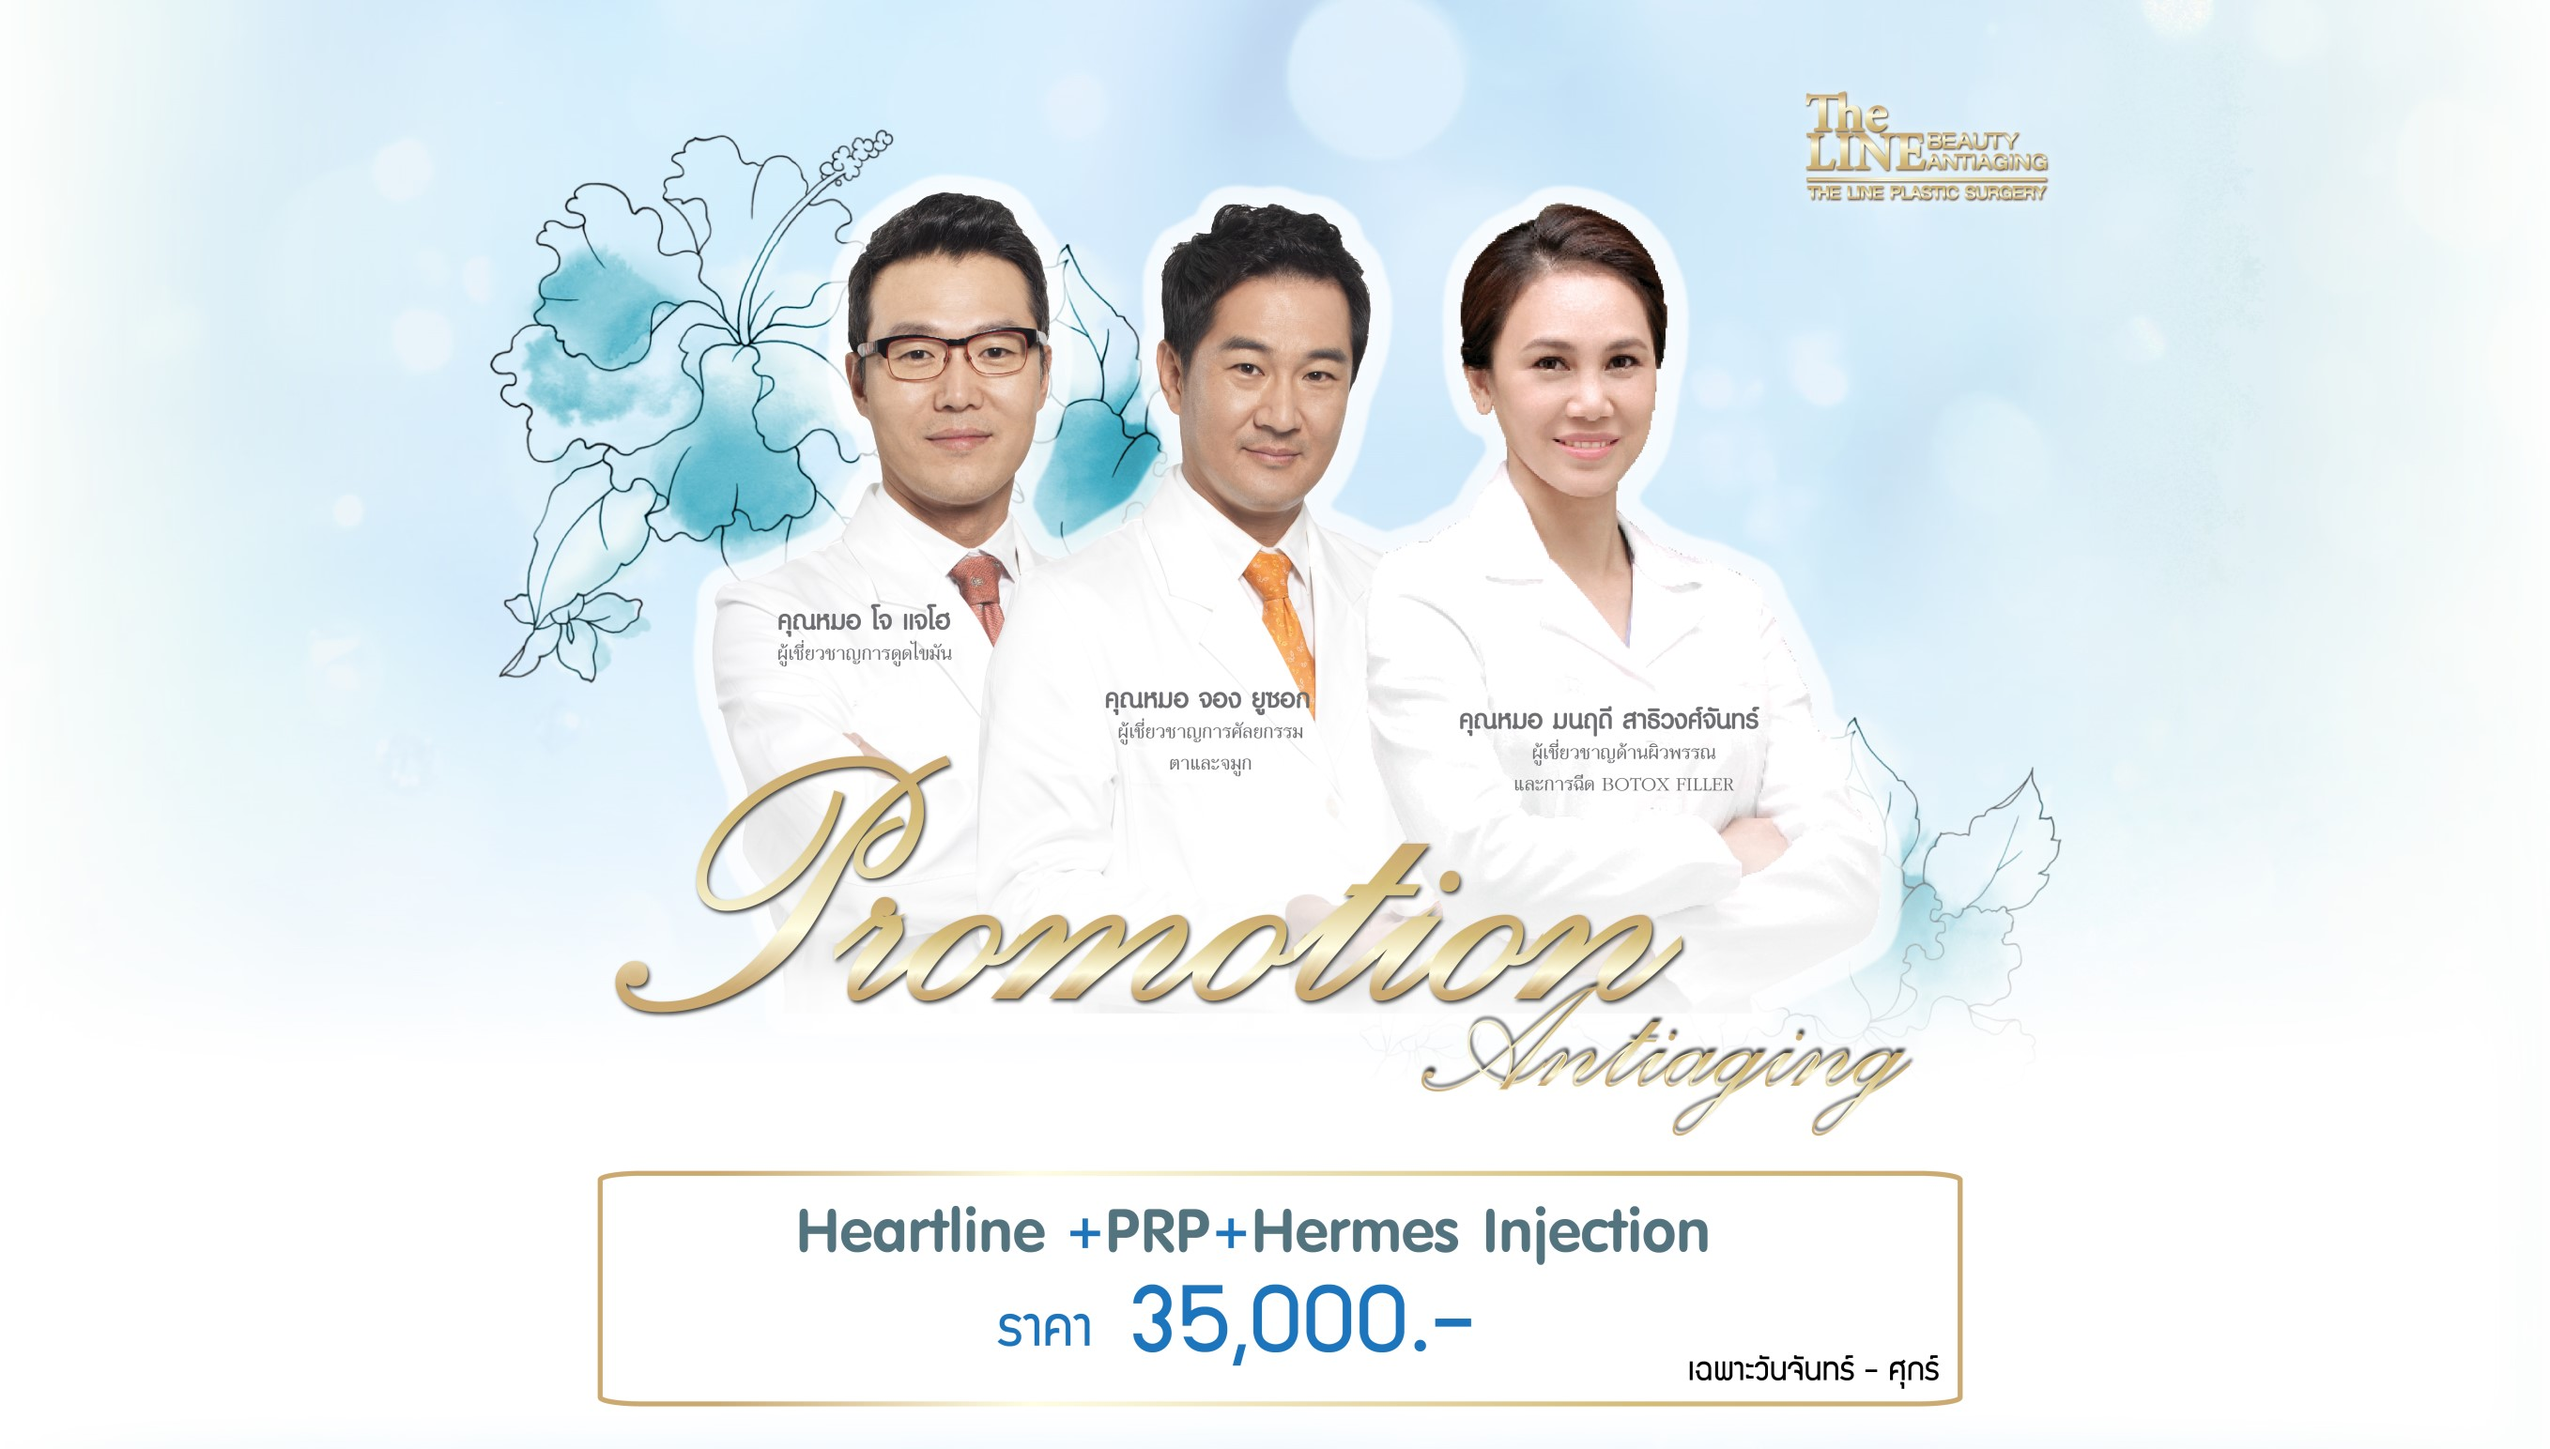
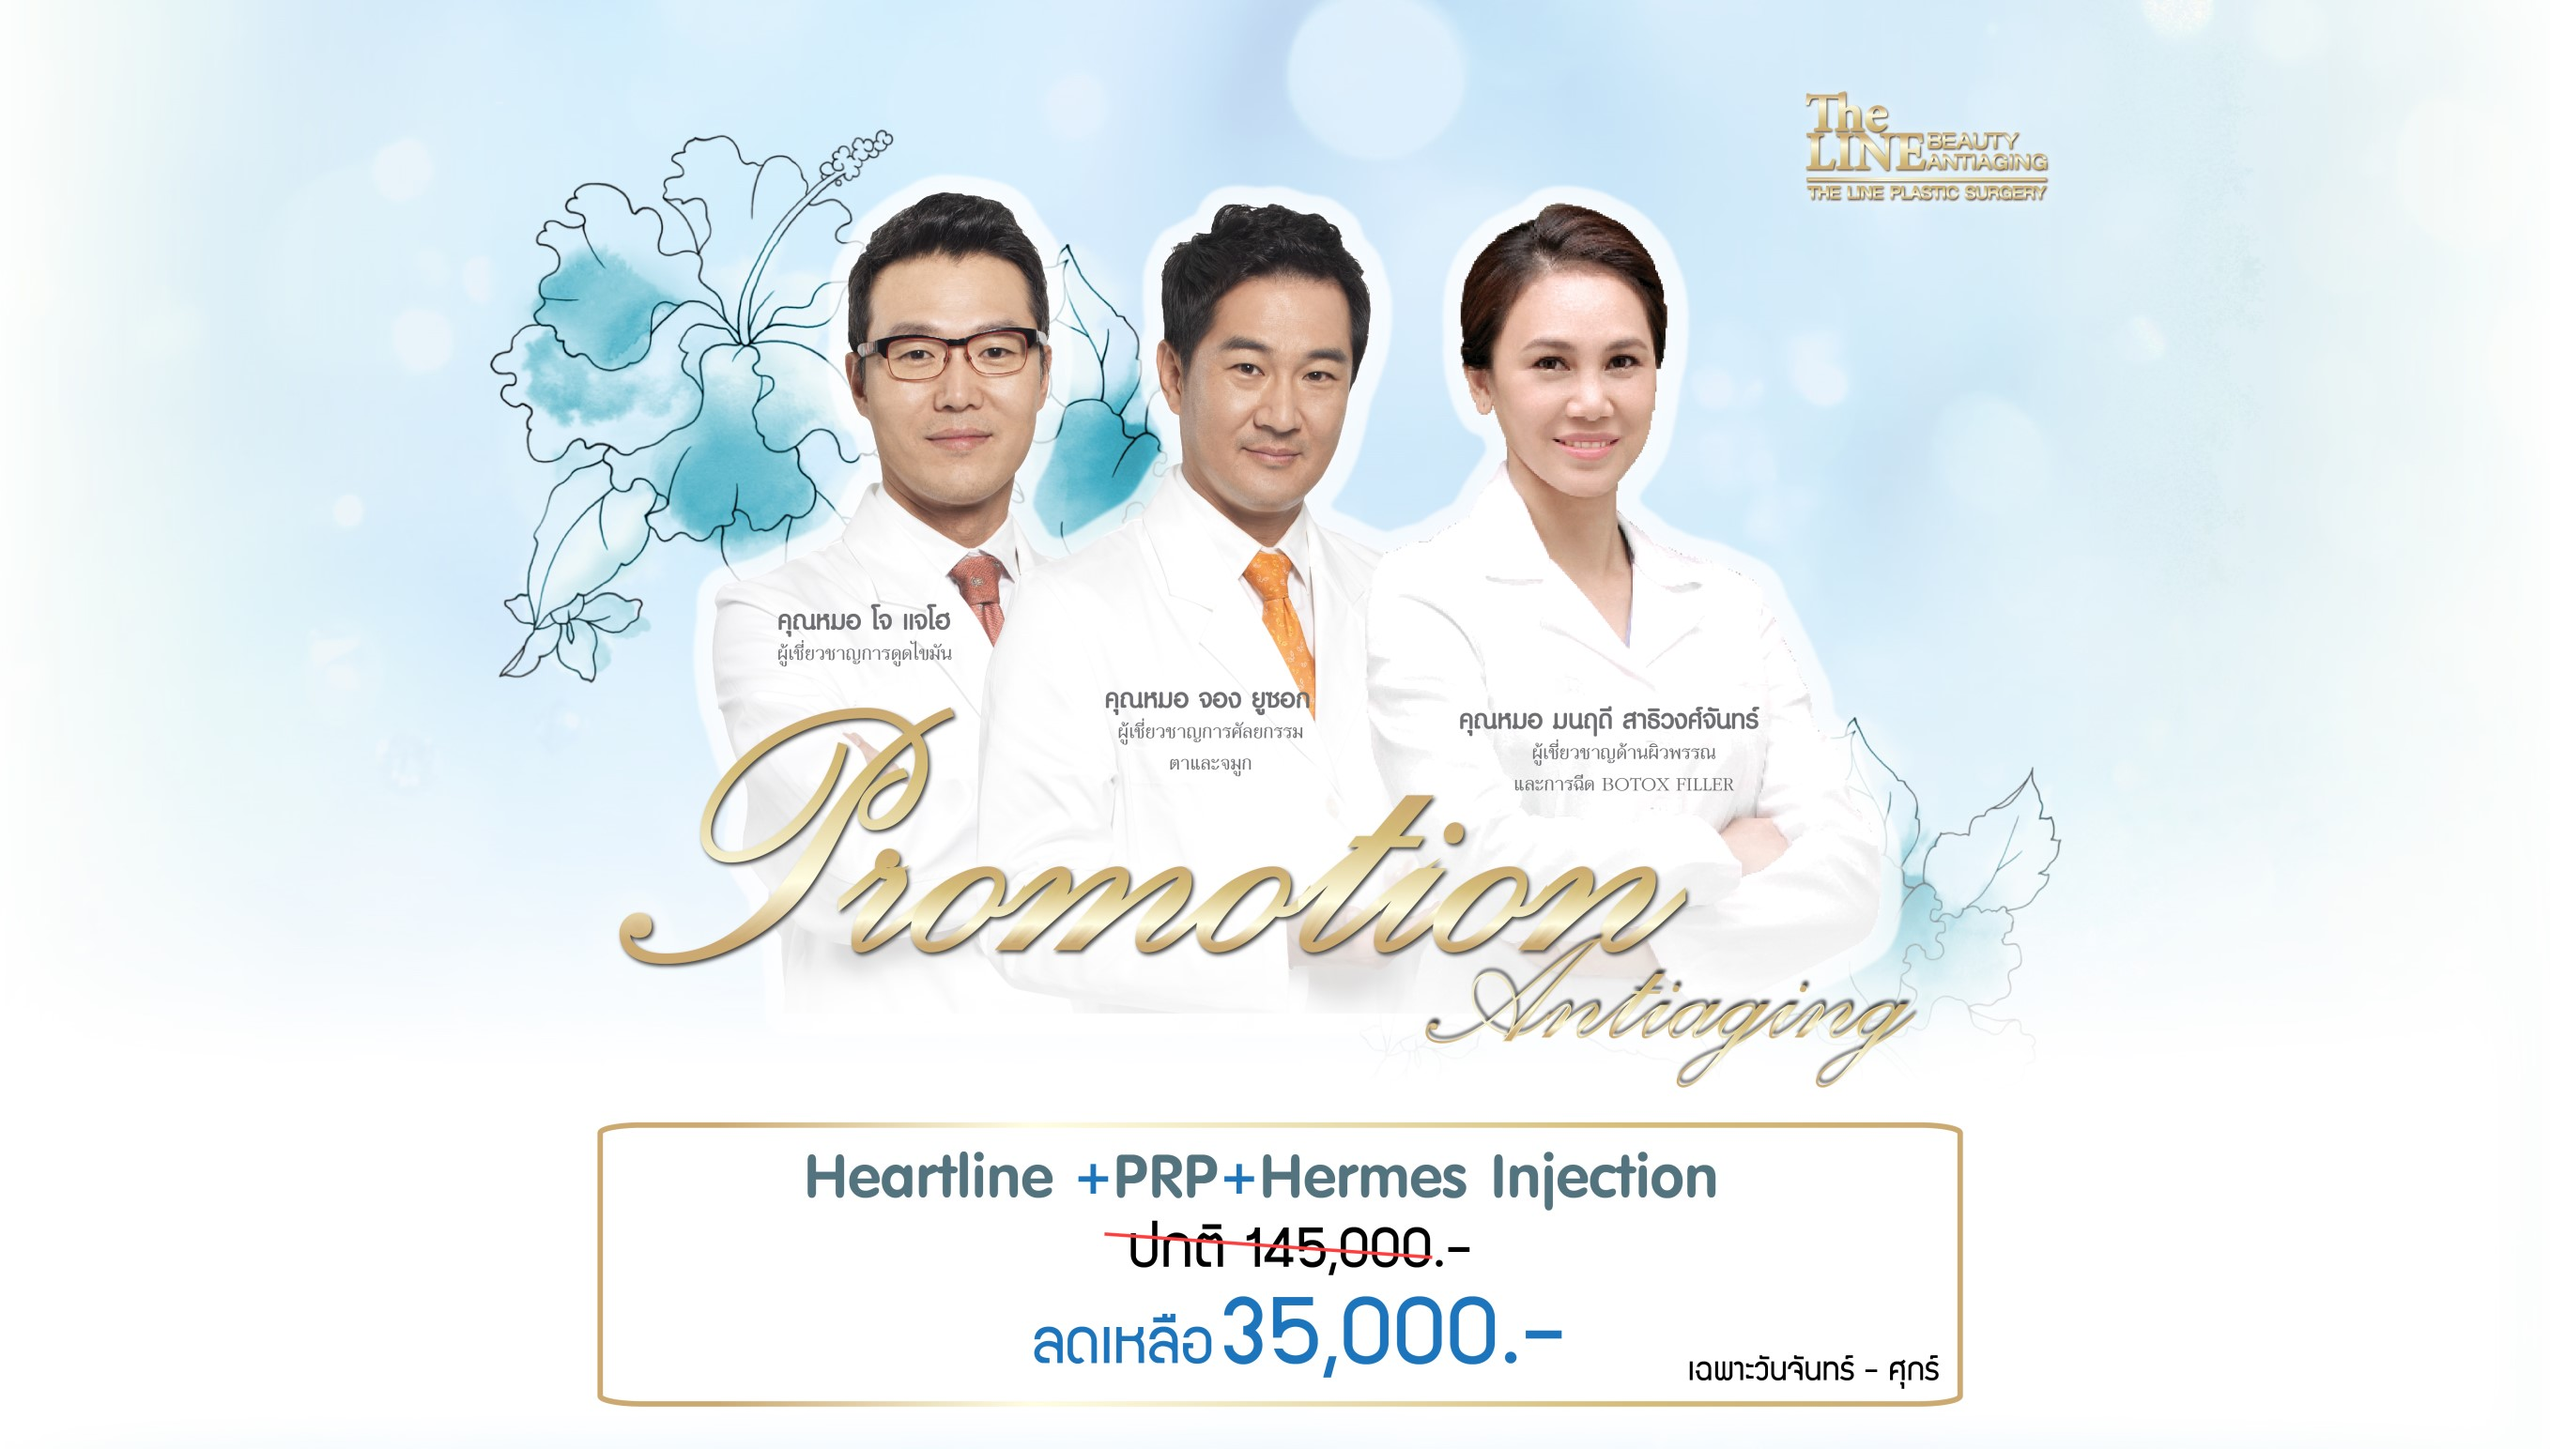
Update original price

Changed region(s): [[0.2165, 0.4663, 0.7732, 0.9637], [0.2474, 0.7461, 0.2784, 0.7772], [0.2165, 0.7772, 0.2474, 0.8083]]

diff --git a/august/index.html b/august/index.html
@@ -139,7 +139,7 @@
                             <div class="col-xs-12">
                                 <select class="form-control">
                                     <optgroup label="Promotion"></optgroup>
-                                    <option value="상안검+하안검 - 200만원">Heartline + PRP + Hermes Injection - 350,000 บาท</option>
+                                    <option value="상안검+하안검 - 200만원">Heartline + PRP + Hermes Injection - 35,000 บาท</option>
                                     <option value="눈썹거상 - 50만원">Theline Smart Lifting- 9,900 บาท</option>
                                     <option value="울쎄라 - 65만원">Botox กราม - 3,000 บาท</option>
                                     <option value="파워V윤곽술 - 100만원">Skin Botox- 5,000 บาท</option>
